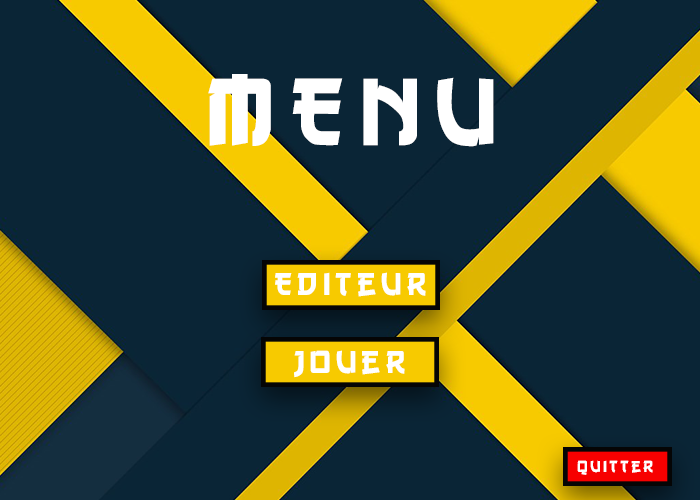
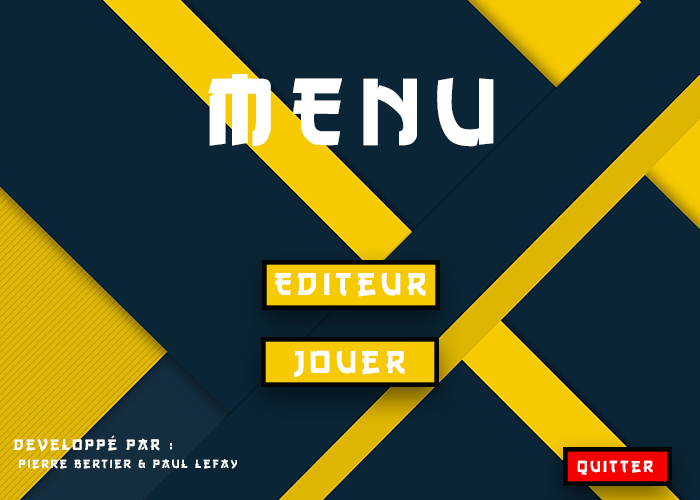
&&&

diff --git a/rpolygon.py b/rpolygon.py
@@ -1,3 +1,8 @@
+###################################################################
+#Script	: Génération d'une liste de points aléatoire
+#Details : Ce script permet de générer un polygone convexe en sortie
+#Auteurs : Paul Lefay et Pierre Bertier
+###################################################################
 from math import *
 import math
 import random
@@ -19,7 +24,7 @@ class GPoly():
             xc = xc + x[i]
             yc = yc + y[i]
         xc = xc/n
-        yc = yc / n
+        yc = yc/n
         center = (xc,yc)
         angles = []
         for i in range(n):
@@ -32,6 +37,5 @@ class GPoly():
         return m
 
     def merge(self,list1, list2):
-
         merged_list = [(list1[i], list2[i]) for i in range(0, len(list1))]
         return merged_list

diff --git a/jeu.py b/jeu.py
@@ -292,7 +292,8 @@ def randomg():
     global width,height,points
     print("Random g")
     main.fen2.destroy()
-    points = GPoly(6).generate(6)
+    nb = 5
+    points = GPoly(nb).generate(nb)
     print("PT save : " ,points)
     for i in range(len(points)):
         x = points[i][0]
@@ -372,9 +373,7 @@ def clickbb(event):
     x = event.x
     y = event.y
     el = main.canvas.find_closest(x,y)
-
     color = main.canvas.itemcget(el, "fill")
-
     if(color == "yellow"):
         color = sommet1
     elif(color == sommet1):
@@ -445,10 +444,6 @@ def validateb():
             os.system('python menu.py')
     else :
         messagebox.showinfo("Perdu", "Hum, il me semble que cela ne soit pas la bonne réponse")
-
-
-
-
 
 #-----Triangulation-----#
 
